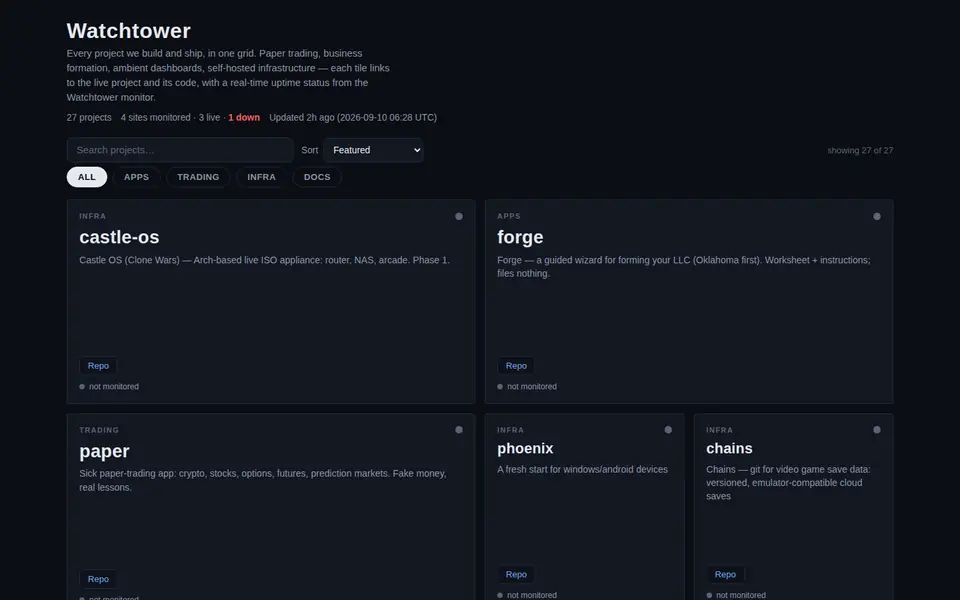
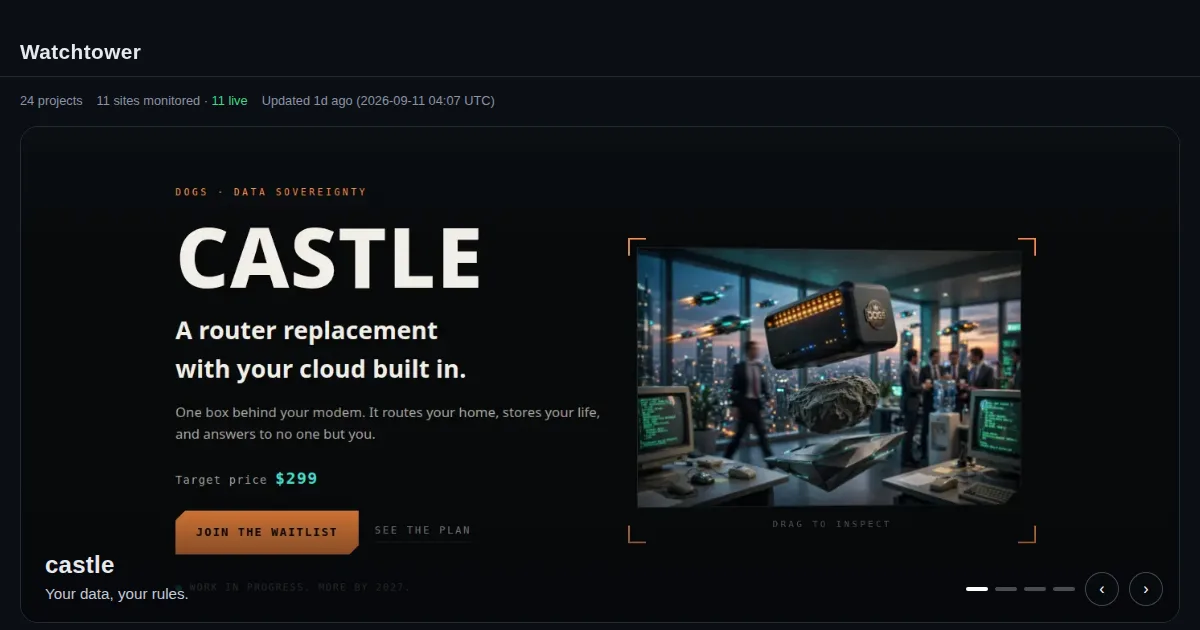
tower: refresh og:image — re-rendered shots/tower.webp from the current hub design (Castle featured carousel, 1200x630) replacing the stale Sep-11 capture; og:image:width/height meta updated 960x600 -> 1200x630; zero PII hits

diff --git a/index.html b/index.html
@@ -17,8 +17,8 @@
 <meta property="og:locale" content="en_US">
 <meta property="og:type" content="website">
 <meta property="og:image" content="https://yeahdogs.github.io/tower/shots/tower.webp">
-<meta property="og:image:width" content="960">
-<meta property="og:image:height" content="600">
+<meta property="og:image:width" content="1200">
+<meta property="og:image:height" content="630">
 <meta property="og:image:alt" content="Watchtower — the DOGS project tile grid">
 <meta name="twitter:card" content="summary_large_image">
 <meta name="twitter:title" content="Watchtower — DOGS Project Portfolio">
